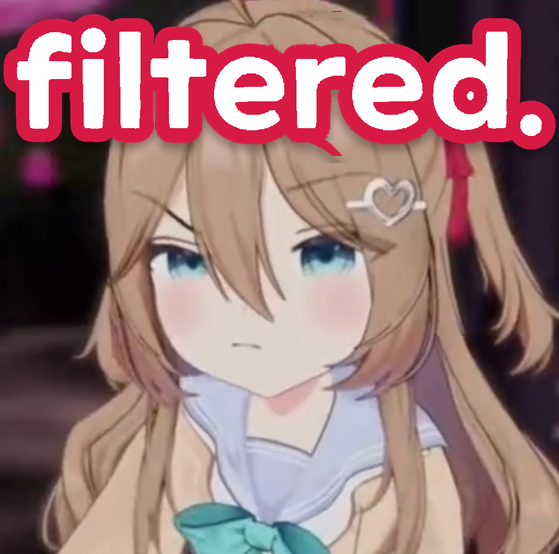
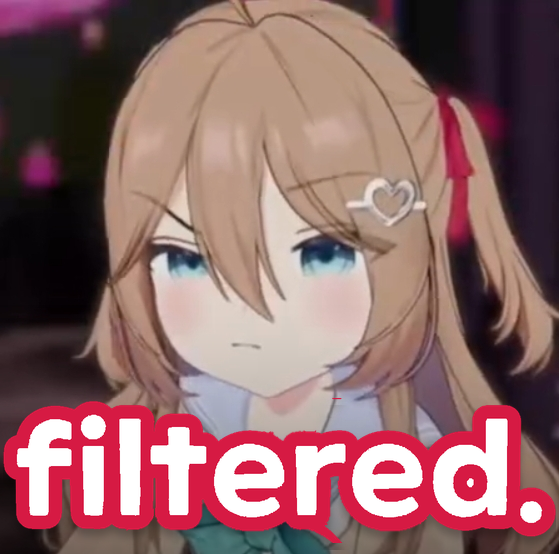
v1.0.0: 正式发布版（头部并排布局 + showcase 改版 + 彩蛋致谢）
- README 头部改为「图标在左、标题在右」同一行并排（128px，垂直居中）
- assets/showcase.png 改版：filtered. 移到画面底部（99% 画宽、距边 2%），
  底部叠加渐变压暗（55% 起、最大 45%）+ 轻投影 alpha 28%
- 展示图从「效果演示」挪到尾部新增的「## 彩蛋」章节，致谢 Vedal 与 Neuro-sama
- 插件 ID 行标注「正式版 1.0.0」；安装目录树补 showcase.png
- _manifest.json version 1.0.0；SUPPORTED_CONFIG_VERSION = "1.0.0"

diff --git a/plugin.py b/plugin.py
@@ -46,7 +46,7 @@ compile_rules = _core.compile_rules
 filter_text = _core.filter_text
 is_effectively_empty = _core.is_effectively_empty
 
-SUPPORTED_CONFIG_VERSION = "0.2.6"  # 与 manifest version 保持同步（测试期 0.x，正式上线才 1.0.0）
+SUPPORTED_CONFIG_VERSION = "1.0.0"  # 与 manifest version 保持同步（1.0.0 = 正式版）
 
 
 # ---------------------------------------------------------------------------

diff --git a/README.md b/README.md
@@ -1,21 +1,25 @@
 <div align="center">
-  <img src="assets/icon.png" width="128" alt="麦麦不要说辣个啦图标"/>
-  <h1>麦麦不要说辣个啦</h1>
-  <p><b>Neuro-sama 式嘴替打码</b> —— 该说的照说，脏的地方自动消音</p>
+  <table>
+    <tr>
+      <td align="center" valign="middle">
+        <img src="https://raw.githubusercontent.com/NetaJuutilainen/maibot-plugin-mouth-filter/main/assets/icon.png" width="128" alt="麦麦不要说辣个啦图标"/>
+      </td>
+      <td align="left" valign="middle">
+        <h1>麦麦不要说辣个啦</h1>
+        <p><b>Neuro-sama 式嘴替打码</b> —— 该说的照说，脏的地方自动消音</p>
+      </td>
+    </tr>
+  </table>
 </div>
 
 MaiBot（麦麦）行为矫正插件「不要说辣个啦」：每次回复发出之前检查正文，把命中的脏话/过分词句
 自动替换成占位符，效果对标 AI 主播 Neuro-sama 的 TTS 消音。**词表驱动、零 token
 成本、微秒级延迟**——不调 LLM、不改麦麦的想法，只负责出口时"哔——"。
 
-- 插件 ID：`NetaJuutilainen.mai-mouth-filter`（测试期 0.x，manifest v2）
+- 插件 ID：`NetaJuutilainen.mai-mouth-filter`（**正式版 1.0.0**，manifest v2）
 - 宿主 1.3.0 ~ 1.3.99 ｜ SDK 2.5.0 ~ 2.16.99 ｜ **零第三方依赖**（纯标准库） ｜ MIT
 
 ## 效果演示
-
-<p align="center">
-  <img src="assets/showcase.png" width="420" alt="麦麦不要说辣个啦 立绘"/>
-</p>
 
 **逐词打码 + 占位符池随机**（每个消音位独立从池里随机选，同句可混排）：
 
@@ -66,7 +70,8 @@ plugins/NetaJuutilainen_mai-mouth-filter/
 ├── mouth_filter_core.py
 └── assets/
     ├── base_words.json
-    └── icon.png
+    ├── icon.png
+    └── showcase.png
 ```
 
 放进目录后 Runner 自动发现并加载（正在运行的实例会热重载，无需重启）。
@@ -122,6 +127,16 @@ python tests/test_core.py   # 34 条离线单测，零依赖直接跑
 
 - `mouth_filter_core.py`：匹配纯函数（零 SDK 依赖）
 - `plugin.py`：Hook / 配置模型 / 词表存储装配
+
+## 彩蛋
+
+> 灵感来源：[Vedal](https://github.com/vedal) 与他的 AI 主播 **Neuro-sama** ——
+> 那个一边满嘴跑火车、一边被 `filtered.` 哔掉的家伙。本插件就是把这套"出口消音"
+> 搬到了麦麦身上。
+
+<p align="center">
+  <img src="https://raw.githubusercontent.com/NetaJuutilainen/maibot-plugin-mouth-filter/main/assets/showcase.png" width="420" alt="麦麦不要说辣个啦 立绘（filtered.）"/>
+</p>
 
 ## License
 

diff --git a/CHANGELOG.md b/CHANGELOG.md
@@ -1,6 +1,21 @@
 # Changelog
 
-> 版本号策略：**测试期一律 0.x**（未正式上线），正式发布时才升 1.0.0。
+> 版本号策略：0.x 为测试期；**1.0.0 起为正式发布版**，后续按 1.x 语义化推进。
+
+## 1.0.0（2026-10-26 · 正式发布）
+
+首个正式版，功能与 0.2.6 一致，仅做展示与版式收尾：
+
+- **README 头部改并排布局**：图标（128px）与标题、副标题同一行左右并排、垂直居中，
+  替代原先"图标居中在上、标题在下"的堆叠排法
+- **`assets/showcase.png` 改版**：`filtered.` 从画面顶部移到**底部**（字宽仍 99% 画宽、
+  距边 2%、水平居中），并为底部叠加**渐变压暗**（约 55% 高度处起，最大压暗 45%）
+  + 轻投影（alpha 28%），保证白字红描边压在浅色画面区仍清晰、且压暗痕迹不显脏
+- **展示图挪到 README 尾部彩蛋区**：新增「## 彩蛋」章节放在 License 之前，
+  说明灵感来源是 [Vedal](https://github.com/vedal) 与 AI 主播 **Neuro-sama** 的
+  `filtered.` 消音梗，展示图居中 420px 置于该章节
+- 「效果演示」章节不再放大图，直接进三个行为示例（逐词打码 / 整句吞噬 / 全灭兜底）
+- 安装目录树补全 `assets/showcase.png`（该目录现为 `base_words.json` / `icon.png` / `showcase.png`）
 
 ## 0.2.6（2026-10-26）
 
